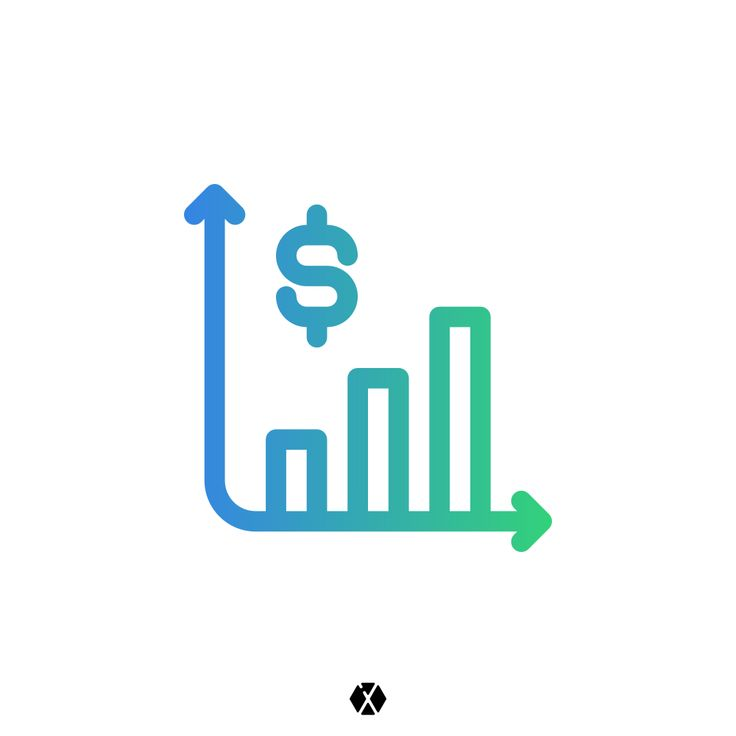
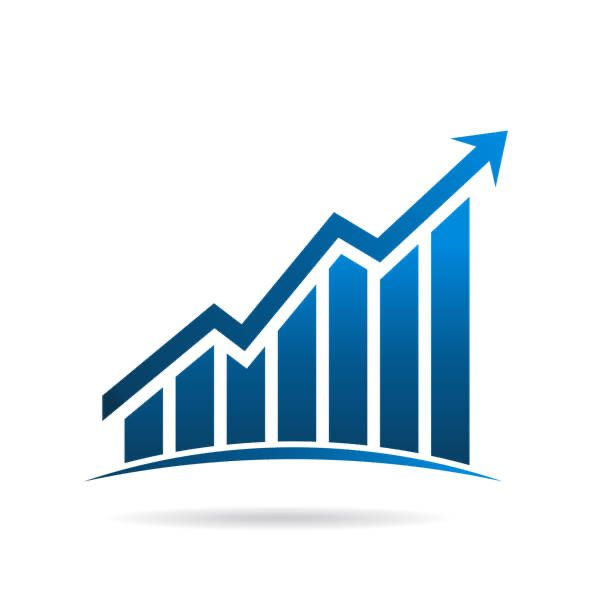
padding fix home, services page updated

diff --git a/src/app/home/page.tsx b/src/app/home/page.tsx
@@ -6,7 +6,7 @@ import {
 } from "@/components/ui/navigation-menu"
 import { Button } from "@/components/ui/button";
 import { ArrowRight, Calendar, ChevronRight, HeartHandshakeIcon, ShieldCheckIcon, TrafficConeIcon } from "lucide-react";
-import { Card, CardContent } from "@/components/ui/card"
+import { Card, CardContent, CardHeader, CardTitle } from "@/components/ui/card"
 import {
   Carousel,
   CarouselContent,
@@ -31,7 +31,7 @@ export default async function HomePage(){
             </div>
       <div className=" items-center">
         <div className=" sm:py-16 sm:px-0">
-        <div className="sm:float-right p-8">
+        <div className="sm:float-right p-6">
             <TimerCountDown userid={userId.userId}/>
     <div className="flex flex-row justify-between bg-darker rounded-lg p-6 mt-2 w-[320px] sm:w-[350px] hidden sm:flex">
         <p className="text-white">See more Articles by WarrenMu and many of our experts onboard</p>
@@ -71,7 +71,7 @@ export default async function HomePage(){
           <CarouselItem key="training" className="md:basis-1/2 lg:basis-1/3">
             <div>
               <Card className="w-full p-0 rounded-2xl">
-                <CardContent className="flex p-4">
+                <CardContent className="flex p-6">
           <NavigationMenu>
           <ul className="">
               <li className="row-span-3">
@@ -83,7 +83,7 @@ export default async function HomePage(){
                         <TrafficConeIcon className="size-20"/>
                     </div>
                     <div className="p-6 sm:p-12 bg-white rounded-b-xl">
-                      <div className=" text-2xl mt-4 text-dark font-semibold leading-5">
+                      <div className=" text-3xl mt-4 text-dark font-semibold leading-6 tracking-tight">
                       Cyber Security Training</div>
                     <p className="text-sm text-card-foreground my-8">
                     For: Students, IT professionals, and organizations
@@ -102,7 +102,7 @@ export default async function HomePage(){
           <CarouselItem key="consultancy" className="md:basis-1/2 lg:basis-1/3">
             <div>
               <Card className="w-full p-0">
-                <CardContent className="flex p-4">
+              <CardContent className="flex p-6">
           <NavigationMenu>
           <ul className="">
               <li className="row-span-3">
@@ -114,7 +114,7 @@ export default async function HomePage(){
                         <HeartHandshakeIcon className="size-20"/>
                     </div>
                     <div className="p-6 sm:p-12 bg-white rounded-b-xl">
-                      <div className=" text-2xl mt-4 text-dark font-bold leading-5">
+                      <div className=" text-3xl mt-4 text-dark font-bold tracking-tight leading-6">
                       Consultancy and Managed Security Services</div>
                     <p className="text-sm text-card-foreground my-8">
                     Offering: Security Policy Creation, Incident Response Planning ...
@@ -133,7 +133,7 @@ export default async function HomePage(){
           <CarouselItem key="pentesting" className="md:basis-1/2 lg:basis-1/3">
             <div>
               <Card className="w-full p-0">
-                <CardContent className="flex p-4">
+                <CardContent className="flex p-6">
           <NavigationMenu>
           <ul className="">
               <li className="row-span-3">
@@ -145,7 +145,7 @@ export default async function HomePage(){
                         <ShieldCheckIcon className="size-20"/>
                     </div>
                     <div className="p-6 sm:p-12 bg-white rounded-b-xl">
-                      <div className=" text-2xl mt-4 text-dark font-bold leading-5">
+                      <div className=" text-3xl mt-4 text-dark font-bold leading-6 tracking-tight">
                       Penetration Testing Services</div>
                     <p className="text-sm text-card-foreground my-8">
                     Web Applications, Network Vulnerability Assessment, Mobile Applications...

diff --git a/src/app/offers/page.tsx b/src/app/offers/page.tsx
@@ -89,7 +89,7 @@ export default async function Services(){
                         />
                     </div>
                     <div className="p-6 sm:p-12 rounded-b-lg">
-                      <div className=" text-2xl mt-4 text-dark font-semibold leading-5">
+                      <div className=" text-3xl mt-4 text-dark font-semibold leading-6 tracking-tight">
                       Cyber Security Training</div>
                     <p className="text-sm text-card-foreground my-8">
                     For: Students, IT professionals, and organizations
@@ -135,7 +135,7 @@ export default async function Services(){
                       />
                   </div>
                     <div className="p-6 sm:p-12 rounded-b-lg">
-                      <div className=" text-2xl mt-4 text-dark font-bold leading-5">
+                      <div className=" text-3xl mt-4 text-dark font-bold leading-6 tracking-tight">
                       Consultancy and Managed Security Services</div>
                     <p className="text-sm text-card-foreground my-8">
                     For: Organizations without dedicated security teams.
@@ -180,7 +180,7 @@ export default async function Services(){
                       />
                   </div>
                     <div className="p-6 sm:p-12 rounded-b-xl">
-                      <div className=" text-2xl mt-4 text-dark leading-5 font-semibold">
+                      <div className=" text-3xl mt-4 text-dark leading-6 tracking-tight font-semibold">
                       Penetration Testing Services</div>
                     <p className="text-sm text-card-foreground my-8">
                     For: SMBs, international tech startups, financial institutions, and e-commerce businesses.
@@ -226,7 +226,7 @@ export default async function Services(){
                       />
                   </div>
                     <div className="p-6 sm:p-12 rounded-b-xl">
-                      <div className=" text-2xl mt-4 text-dark font-semibold leading-5">
+                      <div className=" text-3xl mt-4 text-dark font-semibold leading-6 tracking-tight">
                       Revenue-Generating Activities</div>
                     <p className="text-sm text-card-foreground my-8">
                     Remote Partners: Freelancers for international projects (use platforms like Upwork).
@@ -257,7 +257,7 @@ export default async function Services(){
       <CarouselNext className="mr-6"/>
     </Carousel>
     </div>
-        <div className="sm:p-16 p-6 items-center bg-darker text-white">
+        <div className="sm:p-16 p-10 items-center bg-darker text-white">
         <div className="sm:float-right">
             <TimerCountDown/>
     </div>
@@ -266,7 +266,7 @@ export default async function Services(){
       <NavigationMenuItem>
       <Link href="/" legacyBehavior passHref className="page-link">
             <NavigationMenuLink>
-              <p className="sm:mt-0 mt-3">Back to HomePage</p>
+              <p className="sm:mt-0 mt-6">Back to HomePage</p>
             </NavigationMenuLink>
           </Link>
                 <div className="flex flex-row">
@@ -321,7 +321,7 @@ export default async function Services(){
             </NavigationMenu>
             <div className="p-8">
                     <div className="py-4">
-                        <h3 className="text-2xl leading-5 font-semibold">{course.title}</h3></div>
+                        <h3 className="text-3xl leading-6 tracking-tight font-semibold">{course.title}</h3></div>
                     <p className="mt-4">
                       {course.description}
                     </p>

diff --git a/src/app/resources/timer.jsx b/src/app/resources/timer.jsx
@@ -71,7 +71,7 @@ export default function TimerCountDown(userId){
         <h6>Next Class In: </h6>
         <h5 className="mx-4">{result}</h5>
         </div>
-      <Card className="sm:w-[350px] w-[320px] dark ">
+      <Card className="sm:w-[350px] w-[330px] dark ">
       <CardHeader>
         <CardTitle>Hacking For You!</CardTitle>
         <CardDescription>Diving into the hack ethics of cyber security with WarrenMu</CardDescription>
